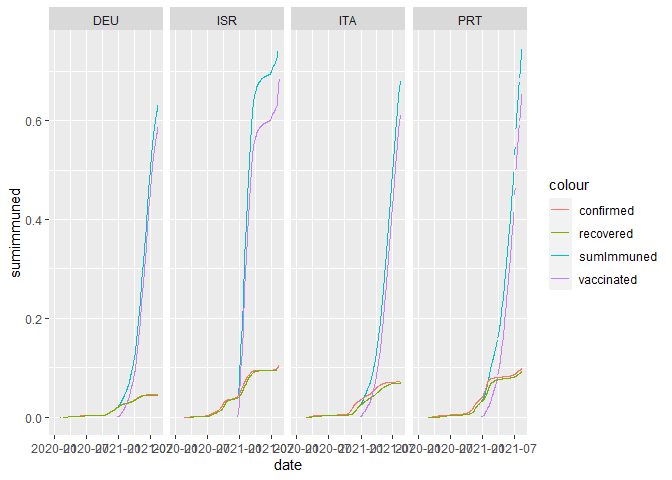
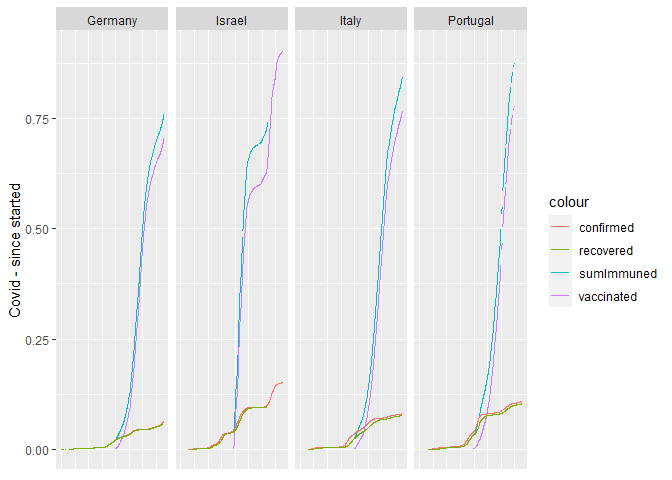
Edited due to dataset's attributes has changed

diff --git a/r_covid19_md.md b/r_covid19_md.md
@@ -34,10 +34,10 @@ and covid19 actual stats:
     var3 <- "בדיקת קורונה"
     
   ##Define what countries we'd like to follow
-    c1 <- "israel"
-    c2 <- "germany"
-    c3 <- "portugal"
-    c4 <- "italy"
+    c1 <- "germany"
+    c2 <- "israel"
+    c3 <- "italy"
+    c4 <- "portugal"
 
 ##Then we load the data into two main datasets, gtData & coviData:  
 
@@ -51,12 +51,13 @@ and covid19 actual stats:
           , (covid19(country=c2, start = "2020-01-01", end = Sys.Date()))
           , (covid19(country=c3, start = "2020-01-01", end = Sys.Date()))
           , (covid19(country=c4, start = "2020-01-01", end = Sys.Date()))))
-
-##Plotting a comparison between the selected countries, showing confirmed cases / population:
+    colnames(coviData)[32] <- "countryName"
     
+##Plotting a comparison between the selected countries, showing confirmed cases / population:
+      
   ##Plot confirmed over time
     ggplot(data = coviData,
-          aes(x = date, y = confirmed/population,  color = id)) +
+          aes(x = date, y = confirmed/population,  color = countryName)) +
           geom_point()
 ```
 
@@ -68,7 +69,8 @@ and covid19 actual stats:
   ##Plot gtrends
     ggplot(data = gtData,
           aes(x = date, y = as.numeric(as.character(hits)), color = keyword)) +
-          geom_line()
+          geom_line()+
+          ylab("Google Trend")
 ```
 
 ![](r_covid19_md_files/figure-gfm/Showcase%20and%20Data%20analysis-2.png)<!-- -->
@@ -84,25 +86,28 @@ and covid19 actual stats:
       method = "pearson", use = "complete.obs")
 ```
 
-    ## [1] 0.7212944
+    ## [1] 0.7175226
 
 ``` r
 ##Creating a second DF which scales the countries data according to their population:
 ##While representing "Immuned" as a summary for whom are twice vaccinated + whom are recovered.
-  covidCorr <- data.frame("date" = coviData$date, "country" = coviData$id, "confirmed" =
+  covidCorr <- data.frame("date" = coviData$date, "country" = coviData$countryName , "confirmed" =
     as.numeric(as.character(coviData$confirmed))/as.numeric(as.character(coviData$population)), sumimmuned =
     coviData$vaccines/coviData$population/2+coviData$recovered/coviData$population, "vaccines" =
     coviData$vaccines/coviData$population/2, "recovered" = coviData$recovered/coviData$population)
 
 ## Plotting all trending data:
-  
   ggplot(data = covidCorr,
         aes(x = date, y = sumimmuned,  color = "sumImmuned")) +
         geom_line()+
         geom_line(aes(y=confirmed, color = "confirmed"))+
         geom_line(aes(y=vaccines, color = "vaccinated"))+
         geom_line(aes(y=recovered, color = "recovered"))+
-        facet_grid(. ~ country)
+        facet_grid(. ~ country)+
+        ylab("Covid - since started")+
+        theme(axis.title.x=element_blank(),
+            axis.text.x=element_blank(),
+            axis.ticks.x=element_blank())
 ```
 
 ![](r_covid19_md_files/figure-gfm/Showcase%20and%20Data%20analysis-3.png)<!-- -->
@@ -113,7 +118,11 @@ and covid19 actual stats:
         aes(x = date, y = recovered,  color = "recovered")) +
         geom_line()+
         geom_line(aes(y=confirmed, color = "confirmed"))+
-        facet_grid(. ~ country)
+        facet_grid(. ~ country)+
+        ylab("Covid - since started (conf-reco)")+
+        theme(axis.title.x=element_blank(),
+            axis.text.x=element_blank(),
+            axis.ticks.x=element_blank())
 ```
 
 ![](r_covid19_md_files/figure-gfm/Showcase%20and%20Data%20analysis-4.png)<!-- -->
